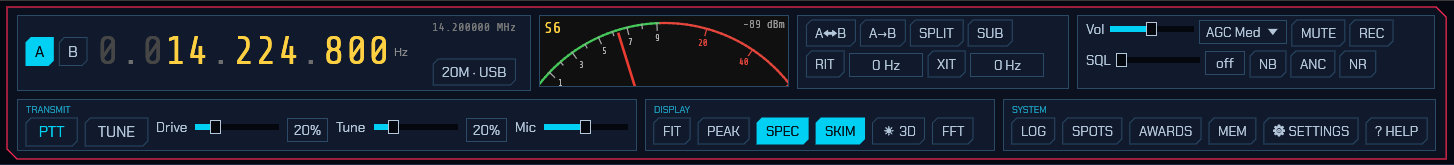
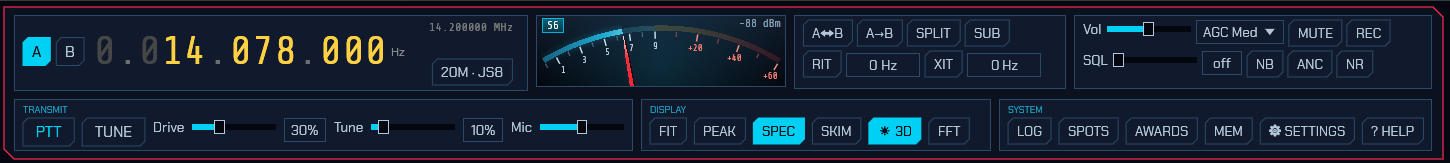
Fix JS8 layout

diff --git a/crates/sdroxide-ui/src/app.rs b/crates/sdroxide-ui/src/app.rs
@@ -4225,133 +4225,178 @@ impl SdroxideApp {
             }
 
             // ── Right: the conversation ─────────────────────────────────────
+            //
+            // Laid out bottom-up so the controls claim their real height and
+            // the conversation takes whatever is left. Reserving a guessed
+            // number of pixels for them instead clips the bottom row as soon as
+            // a chip is added or the theme's spacing changes.
             ui.vertical(|ui| {
-                let compose_h = 52.0;
-                egui::ScrollArea::vertical()
-                    .id_salt("js8-convo")
-                    .max_height((avail_h - compose_h).max(40.0))
-                    .stick_to_bottom(true)
-                    .auto_shrink([false, false])
-                    .show_themed(ui, |ui| {
-                        if js8.messages.is_empty() {
-                            ui.label(RichText::new("— no messages —").weak());
-                        }
-                        for m in &js8.messages {
-                            ui.horizontal_wrapped(|ui| {
-                                ui.spacing_mut().item_spacing.x = 4.0;
-                                let (_, _, _, h, mi, _) =
-                                    sdroxide_types::utc_ymd_hms(m.last_slot_utc);
-                                ui.label(
-                                    RichText::new(format!("{h:02}:{mi:02}")).monospace().weak(),
-                                );
-                                if m.to_me {
-                                    ui.label(RichText::new("★").color(crate::theme::YELLOW));
+                ui.set_height(avail_h);
+                ui.with_layout(egui::Layout::bottom_up(egui::Align::Min), |ui| {
+                    // First declared is lowest in a bottom-up layout, so this
+                    // is the gap between the controls and the panel edge.
+                    // Without it they sit flush against the frame.
+                    ui.add_space(8.0);
+                    self.js8_compose(ui, cmds, &js8);
+                    ui.add_space(4.0);
+                    // Back to normal order for the scrolling part.
+                    ui.with_layout(egui::Layout::top_down(egui::Align::Min), |ui| {
+                        egui::ScrollArea::vertical()
+                            .id_salt("js8-convo")
+                            .stick_to_bottom(true)
+                            .auto_shrink([false, false])
+                            .show_themed(ui, |ui| {
+                                if js8.messages.is_empty() {
+                                    ui.label(RichText::new("— no messages —").weak());
                                 }
-                                let who = if m.from.is_empty() { "…" } else { &m.from };
-                                ui.label(
-                                    RichText::new(format!("{who}:")).monospace().strong().color(
+                                for m in &js8.messages {
+                                    ui.horizontal_wrapped(|ui| {
+                                        ui.spacing_mut().item_spacing.x = 4.0;
+                                        let (_, _, _, h, mi, _) =
+                                            sdroxide_types::utc_ymd_hms(m.last_slot_utc);
+                                        ui.label(
+                                            RichText::new(format!("{h:02}:{mi:02}"))
+                                                .monospace()
+                                                .weak(),
+                                        );
                                         if m.to_me {
-                                            crate::theme::CYAN
-                                        } else {
-                                            crate::theme::CYAN_DIM
-                                        },
-                                    ),
-                                );
-                                if let Some(c) = &m.cmd {
-                                    ui.label(
-                                        RichText::new(c).monospace().color(crate::theme::PINK),
-                                    );
-                                }
-                                let body = RichText::new(&m.text).monospace();
-                                // An incomplete message is still arriving; greying
-                                // it stops a half-sentence reading as the whole one.
-                                ui.label(if m.complete { body } else { body.weak() });
-                                if !m.complete {
-                                    ui.label(
-                                        RichText::new(format!("… ({} frames)", m.frames)).weak(),
-                                    );
+                                            ui.label(
+                                                RichText::new("★").color(crate::theme::YELLOW),
+                                            );
+                                        }
+                                        let who = if m.from.is_empty() { "…" } else { &m.from };
+                                        ui.label(
+                                            RichText::new(format!("{who}:"))
+                                                .monospace()
+                                                .strong()
+                                                .color(if m.to_me {
+                                                    crate::theme::CYAN
+                                                } else {
+                                                    crate::theme::CYAN_DIM
+                                                }),
+                                        );
+                                        if let Some(c) = &m.cmd {
+                                            ui.label(
+                                                RichText::new(c)
+                                                    .monospace()
+                                                    .color(crate::theme::PINK),
+                                            );
+                                        }
+                                        let body = RichText::new(&m.text).monospace();
+                                        // An incomplete message is still arriving; greying
+                                        // it stops a half-sentence reading as the whole one.
+                                        ui.label(if m.complete { body } else { body.weak() });
+                                        if !m.complete {
+                                            ui.label(
+                                                RichText::new(format!("… ({} frames)", m.frames))
+                                                    .weak(),
+                                            );
+                                        }
+                                    });
                                 }
                             });
-                        }
-                    });
-
-                ui.add_space(2.0);
-                // ── Compose ─────────────────────────────────────────────────
-                let target = if self.js8_target.is_empty() {
-                    "@ALLCALL".to_string()
-                } else {
-                    self.js8_target.clone()
-                };
-                ui.horizontal(|ui| {
-                    ui.label(
-                        RichText::new(format!("{target}:"))
-                            .monospace()
-                            .color(crate::theme::CYAN_DIM),
-                    );
-                    let resp = ui.add(
-                        egui::TextEdit::singleline(&mut self.text_tx)
-                            .desired_width((ui.available_width() - 110.0).max(60.0))
-                            .hint_text("Message…"),
-                    );
-                    let send = crate::chrome::chip_accent(
-                        ui,
-                        false,
-                        " SEND ",
-                        crate::theme::PINK,
-                        crate::theme::INK_ON_CYAN,
-                    )
-                    .clicked()
-                        || (resp.lost_focus() && ui.input(|i| i.key_pressed(egui::Key::Enter)));
-                    // Before pressing send, say how long it will take. JS8's
-                    // most surprising property to a new operator is that a
-                    // sentence can occupy a minute of air time.
-                    if !self.text_tx.trim().is_empty() {
-                        let frames = js8_frame_estimate(&self.text_tx);
-                        ui.label(
-                            RichText::new(format!(
-                                "{frames}f · {:.0}s",
-                                f64::from(frames) * js8.speed.slot_s()
-                            ))
-                            .monospace()
-                            .weak(),
-                        );
-                    }
-                    if send && !self.text_tx.trim().is_empty() {
-                        let body = self.text_tx.trim();
-                        let full = if self.js8_target.is_empty() {
-                            body.to_string()
-                        } else {
-                            format!("{} {body}", self.js8_target)
-                        };
-                        cmds.push(Command::DigiSendText(full));
-                        self.text_tx.clear();
-                    }
-                });
-                ui.horizontal(|ui| {
-                    if crate::chrome::chip(ui, false, " CQ ").clicked() {
-                        cmds.push(Command::DigiCallCq);
-                    }
-                    // The queries a station may be asked. Each addresses the
-                    // selected station, so they are inert with nobody selected.
-                    let has_target = !self.js8_target.is_empty();
-                    for q in ["SNR?", "GRID?", "HEARING?", "STATUS?"] {
-                        if crate::chrome::chip(ui, false, q).clicked() && has_target {
-                            cmds.push(Command::DigiSendText(format!("{} {q}", self.js8_target)));
-                        }
-                    }
-                    if crate::chrome::chip(ui, false, " HB ").clicked() {
-                        cmds.push(Command::DigiSendText("@ALLCALL HB".into()));
-                    }
-                    ui.with_layout(egui::Layout::right_to_left(egui::Align::Center), |ui| {
-                        if crate::chrome::chip(ui, false, " STOP TX ").clicked() {
-                            cmds.push(Command::DigiAbortTx);
-                        }
-                        if has_target && crate::chrome::chip(ui, false, " CLEAR TO ").clicked() {
-                            self.js8_target.clear();
-                        }
                     });
                 });
             });
+        });
+    }
+
+    /// The two rows under the JS8 conversation: the actions, and the composer.
+    ///
+    /// **Declared bottom-first.** The caller lays this out with
+    /// [`egui::Layout::bottom_up`] so the controls claim their true height and
+    /// the conversation gets the remainder, which means the first row written
+    /// here is the one that appears lowest.
+    fn js8_compose(
+        &mut self,
+        ui: &mut egui::Ui,
+        cmds: &mut Vec<Command>,
+        js8: &sdroxide_types::Js8Status,
+    ) {
+        let has_target = !self.js8_target.is_empty();
+
+        // Actions — the lower of the two rows. Wrapped, because the right
+        // column can be dragged narrow and a chip that does not fit must move
+        // to the next line rather than be clipped off the edge.
+        ui.horizontal_wrapped(|ui| {
+            if crate::chrome::chip(ui, false, " CQ ").clicked() {
+                cmds.push(Command::DigiCallCq);
+            }
+            if crate::chrome::chip(ui, false, " HB ").clicked() {
+                cmds.push(Command::DigiSendText("@ALLCALL HB".into()));
+            }
+            // The queries address whichever station is selected. Shown greyed
+            // rather than hidden when there is none: a row that changes shape
+            // as you click around is hard to aim at, and chips that only exist
+            // sometimes are chips nobody discovers.
+            ui.add_enabled_ui(has_target, |ui| {
+                for q in ["SNR?", "GRID?", "HEARING?", "STATUS?"] {
+                    if crate::chrome::chip(ui, false, q).clicked() {
+                        cmds.push(Command::DigiSendText(format!("{} {q}", self.js8_target)));
+                    }
+                }
+            });
+            if has_target && crate::chrome::chip(ui, false, " CLEAR TO ").clicked() {
+                self.js8_target.clear();
+            }
+        });
+
+        // The gap between the two rows. In a bottom-up layout this space sits
+        // above what was just written, so it separates the actions from the
+        // composer rather than pushing them into the panel edge.
+        ui.add_space(6.0);
+
+        // Compose. The buttons are declared right-to-left first so they always
+        // get their width, and the text box takes whatever is left over.
+        let target = if has_target { self.js8_target.clone() } else { "@ALLCALL".to_string() };
+        ui.horizontal(|ui| {
+            ui.label(RichText::new(format!("{target}:")).monospace().color(crate::theme::CYAN_DIM));
+            let mut send = false;
+            ui.with_layout(egui::Layout::right_to_left(egui::Align::Center), |ui| {
+                // Stop lives next to send: they are the two things you reach
+                // for in a hurry, and a long message takes minutes to drain.
+                if crate::chrome::chip(ui, false, " STOP ").clicked() {
+                    cmds.push(Command::DigiAbortTx);
+                }
+                send = crate::chrome::chip_accent(
+                    ui,
+                    false,
+                    " SEND ",
+                    crate::theme::PINK,
+                    crate::theme::INK_ON_CYAN,
+                )
+                .clicked();
+                // Before pressing send, say how long it will take. JS8's most
+                // surprising property to a new operator is that a sentence can
+                // occupy a minute of air time.
+                if !self.text_tx.trim().is_empty() {
+                    let frames = js8_frame_estimate(&self.text_tx);
+                    ui.label(
+                        RichText::new(format!(
+                            "{frames}f · {:.0}s",
+                            f64::from(frames) * js8.speed.slot_s()
+                        ))
+                        .monospace()
+                        .weak(),
+                    );
+                }
+                let resp = ui.add(
+                    egui::TextEdit::singleline(&mut self.text_tx)
+                        .desired_width(ui.available_width().max(60.0))
+                        .hint_text("Message…"),
+                );
+                send |= resp.lost_focus() && ui.input(|i| i.key_pressed(egui::Key::Enter));
+            });
+            if send && !self.text_tx.trim().is_empty() {
+                let body = self.text_tx.trim();
+                let full = if has_target {
+                    format!("{} {body}", self.js8_target)
+                } else {
+                    body.to_string()
+                };
+                cmds.push(Command::DigiSendText(full));
+                self.text_tx.clear();
+            }
         });
     }
 
